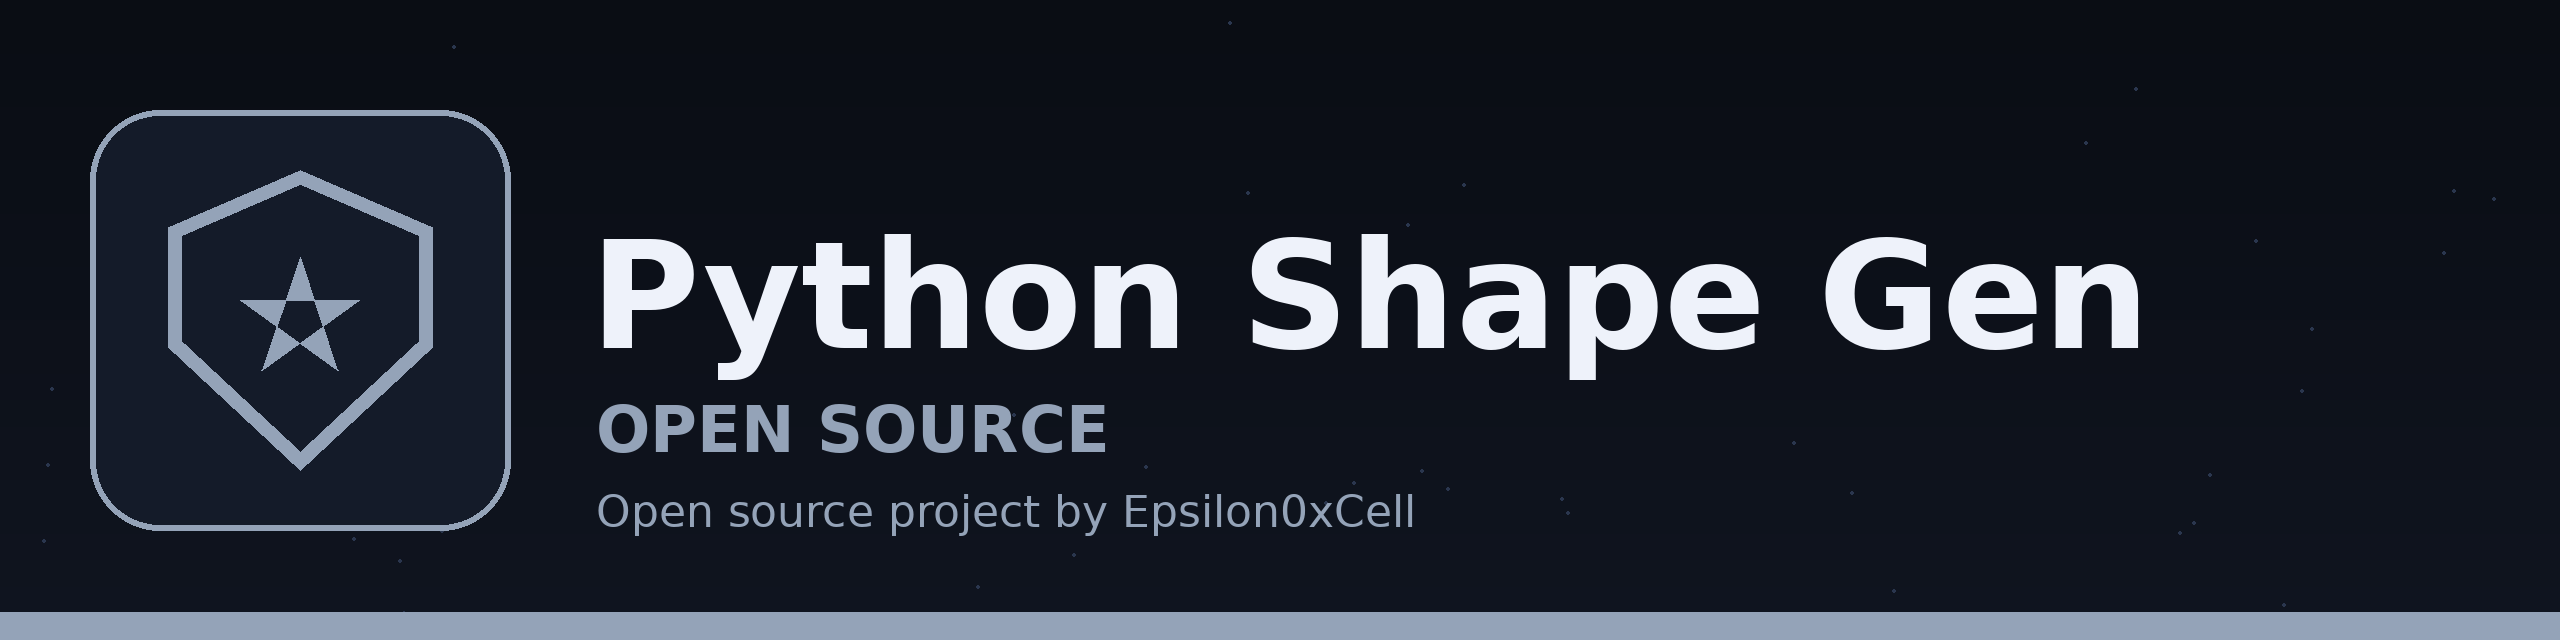
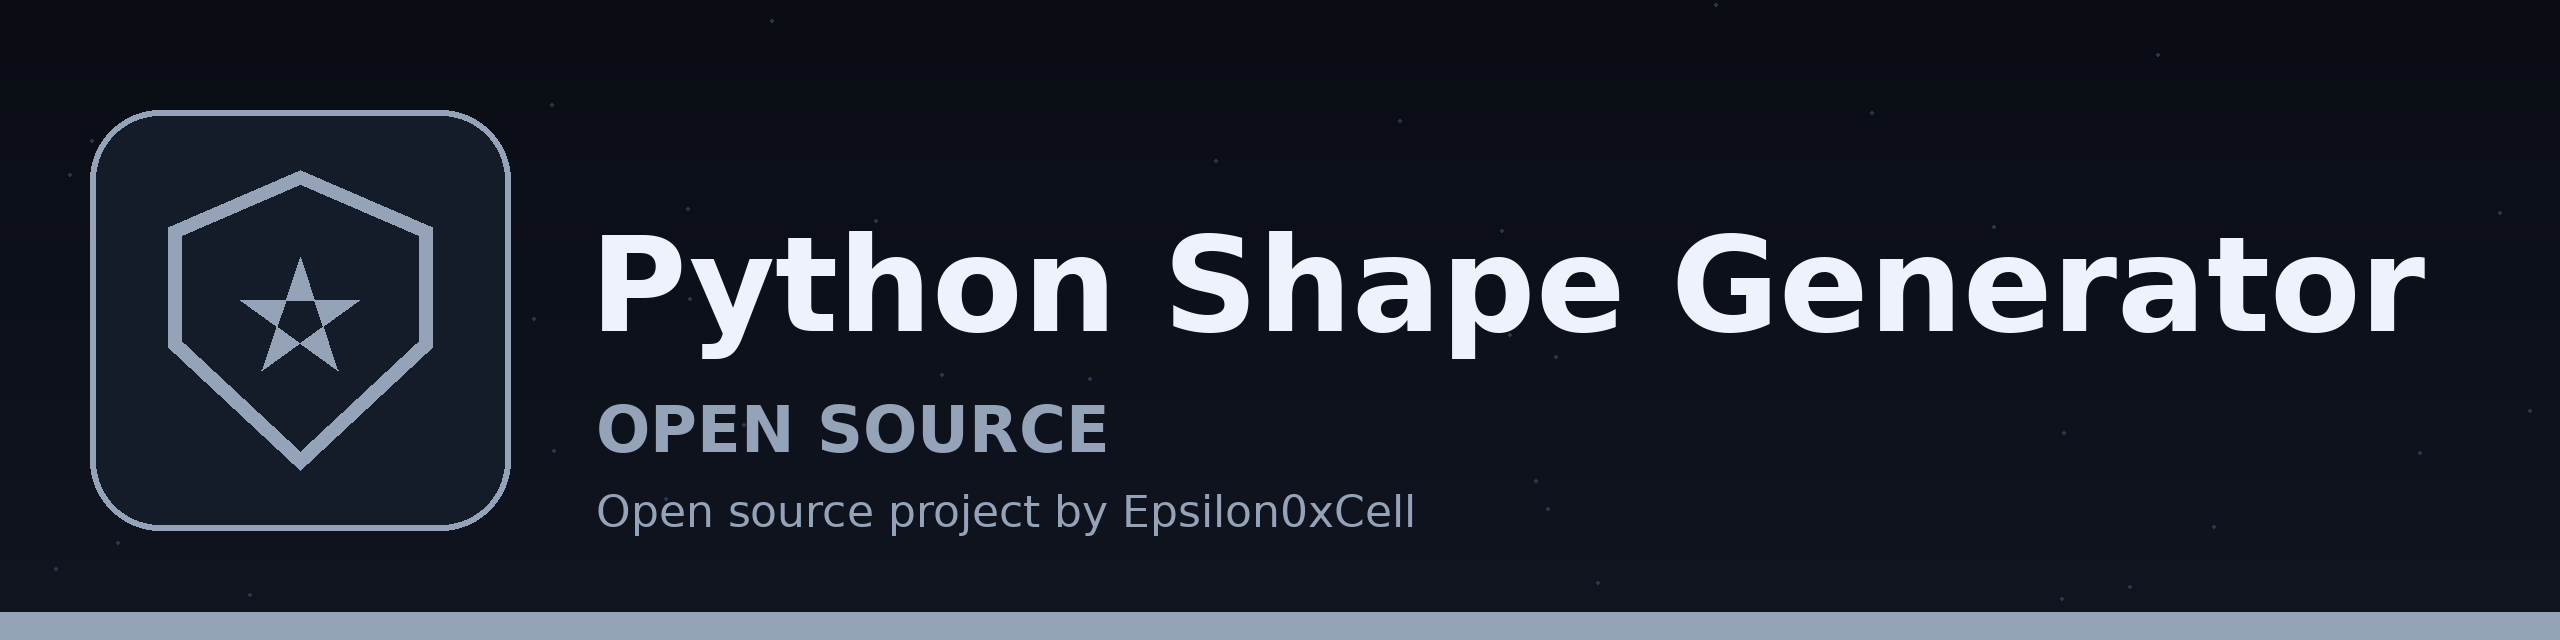
Update name to Python-Shape-Generator: README title and branding

Changed region(s): [[0.2188, 0.3438, 0.9688, 0.5938]]

diff --git a/README.md b/README.md
@@ -1,4 +1,4 @@
 ![Banner](banner.png)
 
-# python-shape-gen
+# Python-Shape-Generator
 python-shape-gen.py
